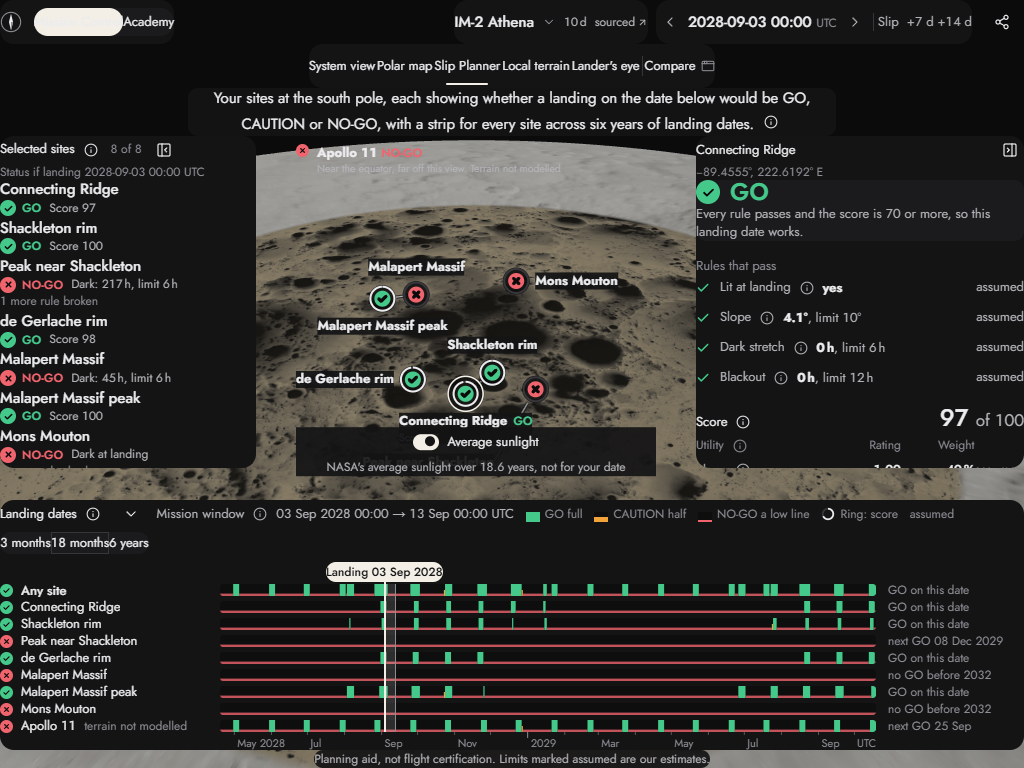
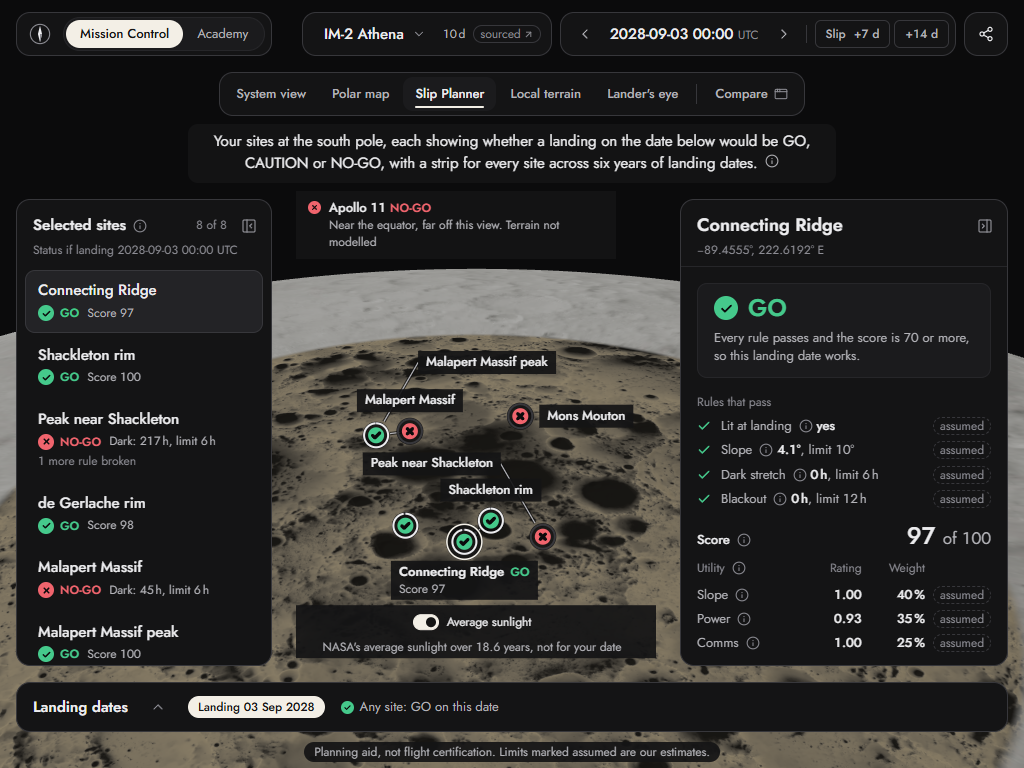
MC7: layer order, fit inset, axis and focused strip; retake built shots
- slip-planner.css names Tailwind's layer order first, so the base reset no
  longer wins over this file's components layer; drops the unlayered
  segmented-control workaround that order bug needed.
- The camera fit keeps 48 px at the foot for the view controls and the
  before-and-after plate.
- The date axis keeps its last month label clear of "UTC".
- The focused site's strip gets a thin outline, as the prototype has.
- All eight built-slip screenshots retaken after the fixes.

diff --git a/web/src/features/mission-control/slip-planner/landing-date-panel.tsx b/web/src/features/mission-control/slip-planner/landing-date-panel.tsx
@@ -493,6 +493,7 @@ function Dates(props: DatesProps) {
               <div
                 key={row.key}
                 className="ldp-strip"
+                data-focused={row.kind === "site" && row.siteId === scenario.focusedSiteId}
                 style={{ top: rowTop(i), height: metrics.height }}
                 tabIndex={compact ? -1 : 0}
                 role="slider"
@@ -706,7 +707,8 @@ const Axis = memo(function Axis({ start, span, width, gridStartMs, top, dayCount
       const month = date.getUTCMonth();
       if (all && month % 3) continue;
       const tx = ((day - start) / span) * width;
-      const labelled = month % step === 0 && tx < width - 30 && (!all || month === 0);
+      // Clear of "UTC" at the right end.
+      const labelled = month % step === 0 && tx < width - 56 && (!all || month === 0);
       const text = !labelled ? null : month === 0 || all ? String(date.getUTCFullYear()) : first && pxPerMonth * step >= 64 ? `${MONTHS[month]} ${date.getUTCFullYear()}` : (MONTHS[month] ?? "");
       if (labelled) first = false;
       out.push({ x: tx, text, major: month === 0 });

diff --git a/web/src/features/mission-control/slip-planner/slip-planner.css b/web/src/features/mission-control/slip-planner/slip-planner.css
@@ -4,6 +4,12 @@
   "Spot" and "Landing-date panel". Tokens only; no new colour.
 */
 
+/*
+  This file is imported with the shell, before theme.css. Name Tailwind's layer order first,
+  so this file cannot declare "components" ahead of "base" and let the base reset win.
+*/
+@layer theme, base, components, utilities;
+
 @layer components {
   /* ── The bottom strip in this view: one panel, sized to its content ─────── */
   .shell-strip[data-slip="true"] {
@@ -267,6 +273,11 @@
     right: 0;
     border-radius: var(--r-sm);
     outline: none;
+  }
+
+  /* The focused site's strip: a thin outline, as the prototype has. */
+  .ldp-strip[data-focused="true"] {
+    box-shadow: 0 0 0 1px var(--ink-3);
   }
 
   .ldp-strip:focus-visible {
@@ -839,16 +850,4 @@
     mask-size: 100% 100%;
     mask-repeat: no-repeat;
   }
-}
-
-/*
-  Outside the layer on purpose: in this panel the shared segmented control lost its padding
-  to a reset elsewhere, and its three zoom words ran together.
-*/
-.ldp-controls .seg {
-  padding: 3px;
-}
-
-.ldp-controls .seg-option {
-  padding: 0 10px;
 }

diff --git a/web/src/features/three/scene/slip.ts b/web/src/features/three/scene/slip.ts
@@ -23,8 +23,11 @@ export const SLIP_REFIT_MS = 520;
 /** Ground kept around every site in the fit: 16 km, or 70 km for one or two sites. */
 export const SLIP_RING_M = 16_000;
 export const SLIP_RING_FEW_M = 70_000;
-/** Room left in the free space: for labels at the sides, plates at the top. */
-export const SLIP_FIT_INSET = { side: 90, top: 40, bottom: 16 } as const;
+/**
+ * Room left in the free space: for labels at the sides, plates at the top, and at the foot
+ * the view's controls and the before-and-after plate (the scene already keeps 60 px).
+ */
+export const SLIP_FIT_INSET = { side: 90, top: 40, bottom: 48 } as const;
 /** The camera aims this share of the free space's height above the sites, so the curve shows. */
 export const SLIP_AIM_SHARE = 0.2;
 

diff --git a/web/src/features/three/scene/slip.test.ts b/web/src/features/three/scene/slip.test.ts
@@ -92,7 +92,7 @@ describe("the Slip Planner's camera fit", () => {
 
   it("refits for a new site set and for a smaller free space", () => {
     const wide = slipPose(polar, space);
-    const narrow = slipPose(polar, { ...space, width: 420 });
+    const narrow = slipPose(polar, { ...space, width: 330 });
     expect(len(sub(narrow.pos, narrow.centre))).toBeGreaterThan(len(sub(wide.pos, wide.centre)));
     const two = slipPose(polar.slice(0, 2), space);
     expect(len(sub(two.centre, wide.centre))).toBeGreaterThan(0);
